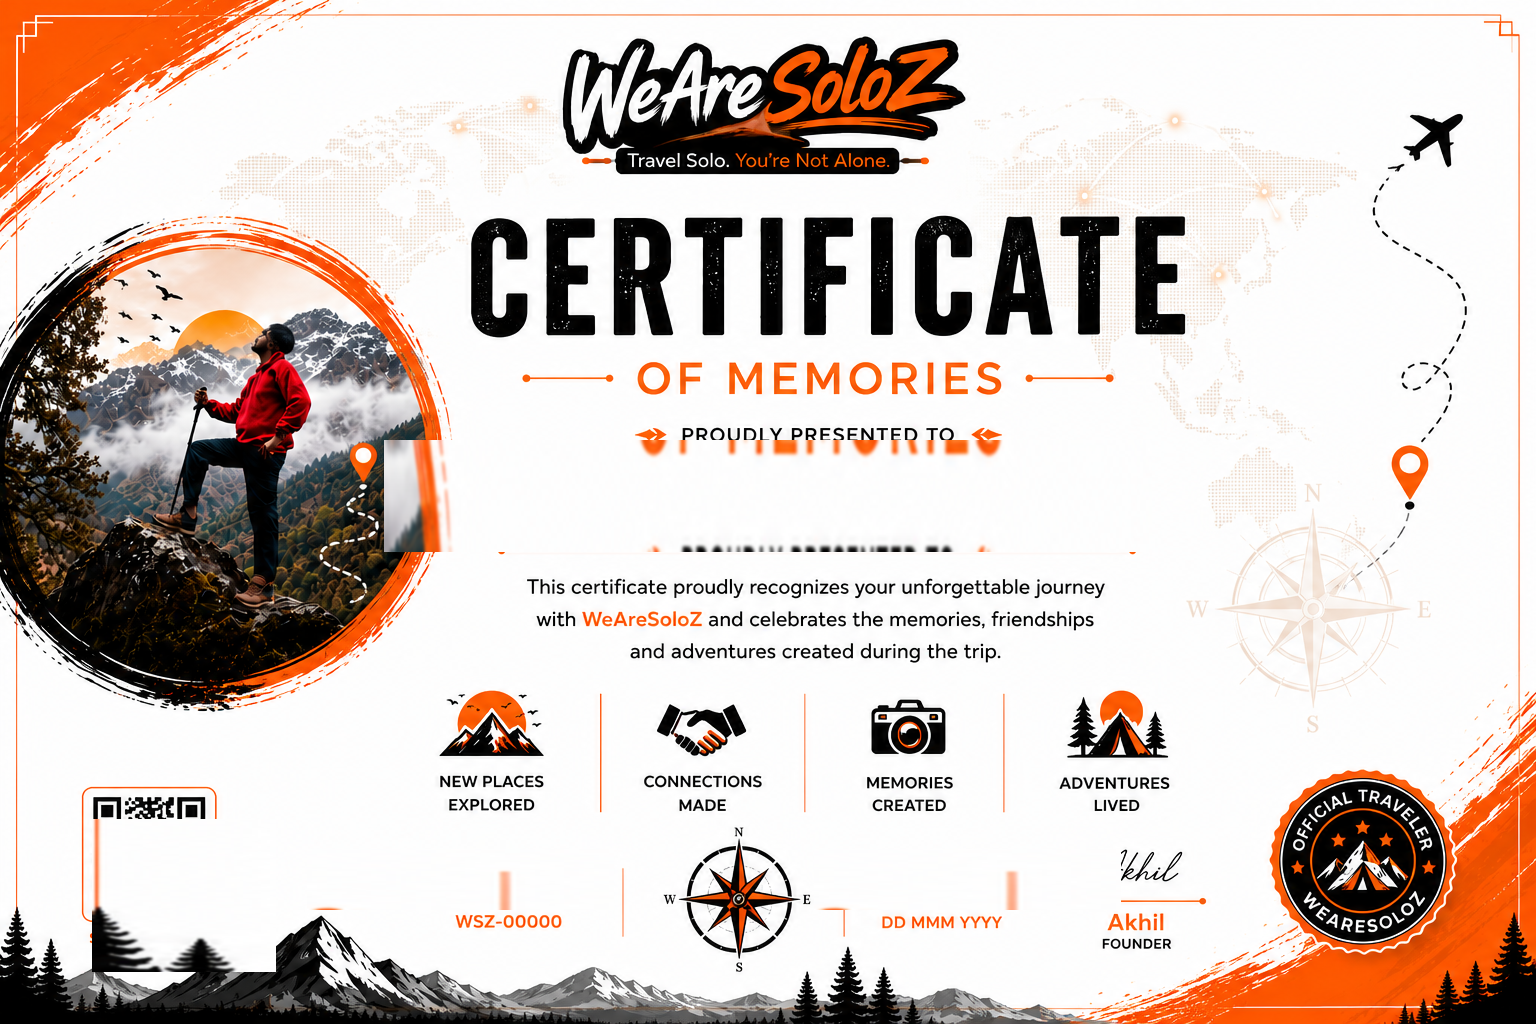
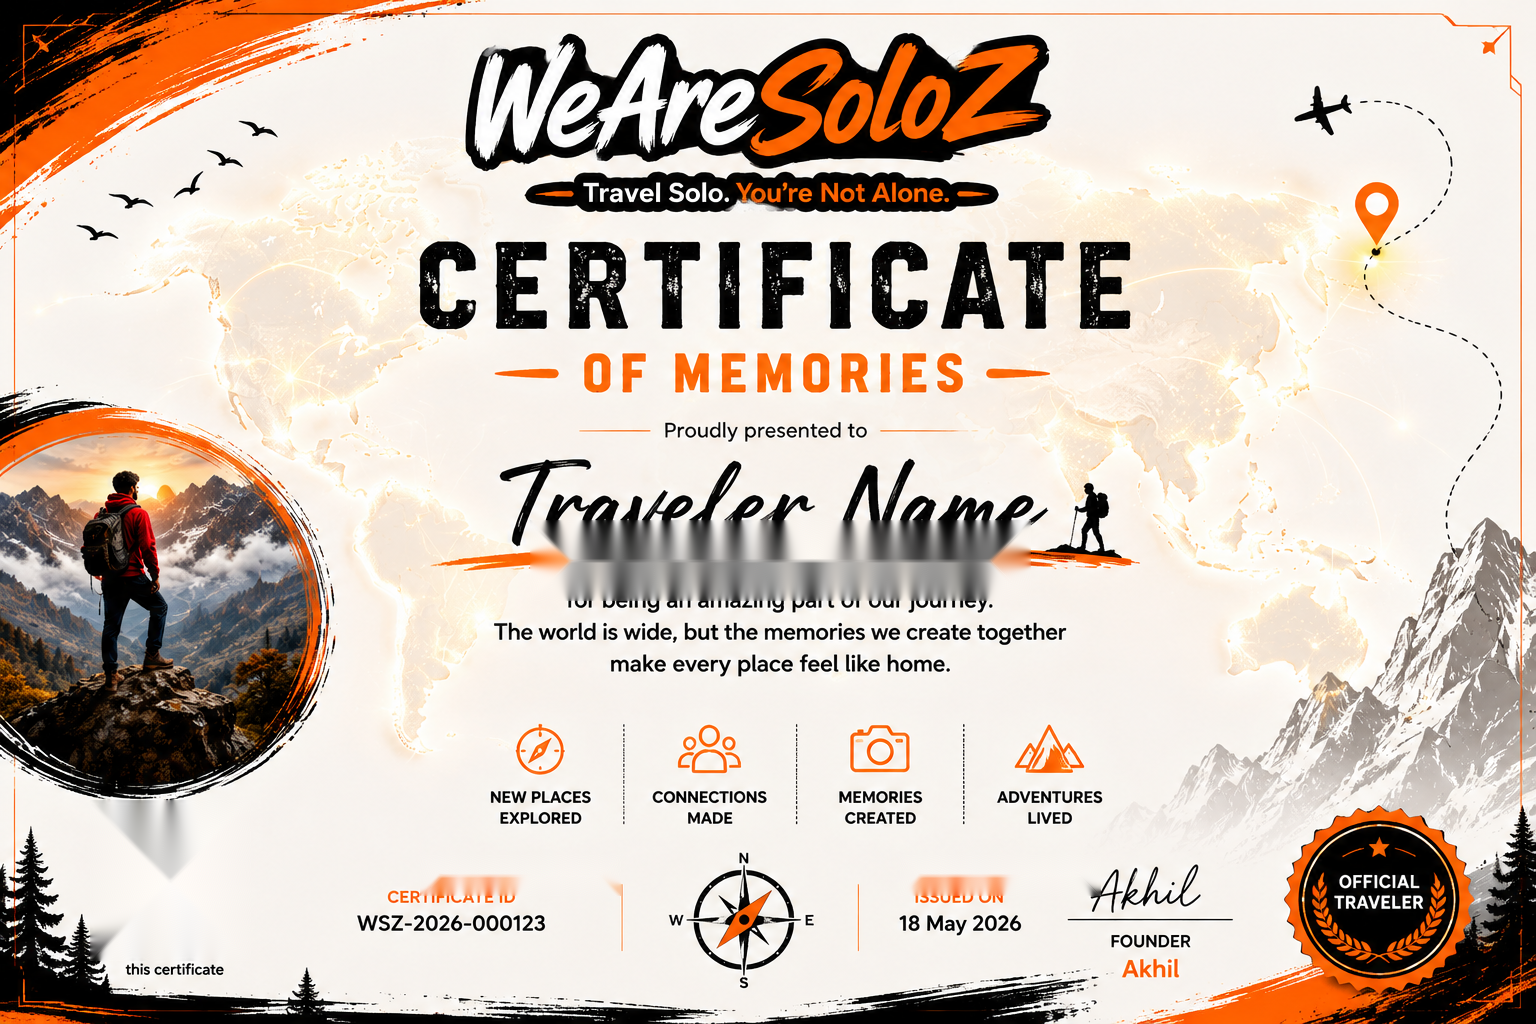
fix(certificate): align traveler name Y position to 555px and apply Telea Navier-Stokes inpainting without touching mountain photo

diff --git a/app/certificate/[id]/page.tsx b/app/certificate/[id]/page.tsx
@@ -107,7 +107,7 @@ export default function CertificatePage({ params }: { params: Promise<{ id: stri
     ctx.fillStyle = "#18181b";
     ctx.textAlign = "center";
     ctx.textBaseline = "middle";
-    ctx.fillText(cert.fullName, 1536 / 2, 490);
+    ctx.fillText(cert.fullName, 1536 / 2, 555);
 
     // 4. Draw Certificate ID
     ctx.font = "bold 20px monospace, sans-serif";
